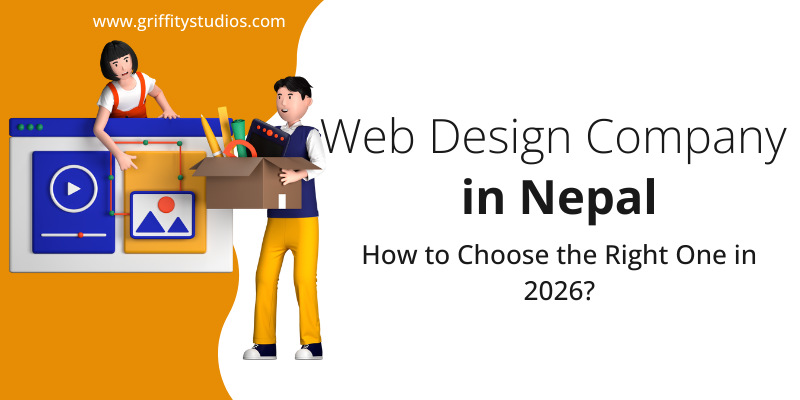
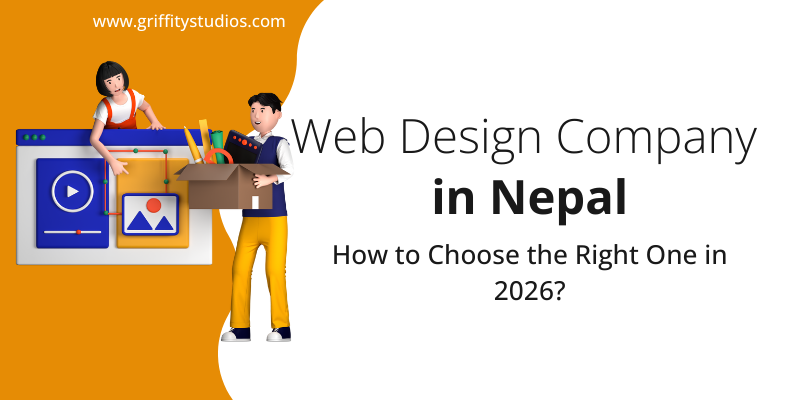
image and CTA updated

Changed region(s): [[0.0, 0.09, 1.0, 0.9], [0.5312, 0.45, 0.8438, 0.57], [0.625, 0.69, 0.75, 0.75]]

diff --git a/articles/web-design-company-in-nepal-how-to-choose-the-right-one.md b/articles/web-design-company-in-nepal-how-to-choose-the-right-one.md
@@ -20,7 +20,7 @@ slug: "web-design-company-in-nepal-how-to-choose-the-right-one"
 
 # Web Design Company in Nepal: How to Choose the Right One in 2026  
 
-Finding the right web design company in Nepal can determine whether your business simply “has a website” or actually generates consistent leads and revenue online.
+Finding the right web design company in Nepal can determine whether your business simply has a website or actually generates consistent leads and revenue online.
 
 With many agencies claiming to be the best IT company in Nepal, the best branding company in Nepal, or the best website design company in Nepal, it becomes difficult to separate marketing claims from real capability.
 
@@ -30,45 +30,45 @@ This guide will help you evaluate agencies properly and make a confident, strate
 
 ## Why Choosing the Right Web Design Company Matters  
 
-Your website is often the first point of contact between your business and potential customers. A poorly built site can:
+Your website is often the first interaction potential customers have with your brand. A poorly built site can:
 
 - Reduce trust and credibility  
 - Rank poorly on search engines  
 - Load slowly on mobile devices  
 - Fail to convert visitors into inquiries  
 
-A professionally developed website, on the other hand, supports:
+A professionally developed website supports:
 
 - Brand authority  
 - SEO performance  
 - Paid advertising campaigns  
 - Long-term scalability  
 
-That is why selecting the right provider for web design in Nepal is a business investment, not just a design decision.
+That is why selecting the right provider for web design in Nepal is a strategic business investment.
 
 ---
 
 ## Step 1: Evaluate the Portfolio  
 
-A strong portfolio tells you more than a sales pitch ever will.
+A strong portfolio provides insight into real capability.
 
-When reviewing previous projects, check for:
+When reviewing previous projects, look for:
 
 - Clean and modern layout  
 - Mobile responsiveness  
-- Fast loading speed  
+- Fast loading performance  
 - Clear navigation structure  
 - Functional live websites  
 
-Visit the actual websites they have built. Test them on your mobile phone. Assess the user experience yourself.
+Visit actual links. Test them on mobile devices. Assess user experience and performance.
 
-If a company positions itself as the best website design company in Nepal, their portfolio should demonstrate consistency and quality across multiple industries.
+If a company positions itself as the best website design company in Nepal, their portfolio should consistently reflect quality and versatility.
 
 ---
 
 ## Step 2: Understand Their Development Process  
 
-A professional agency should follow a structured workflow that includes:
+A professional web design company in Nepal should follow a structured workflow:
 
 1. Requirement analysis  
 2. Planning and sitemap creation  
@@ -78,75 +78,70 @@ A professional agency should follow a structured workflow that includes:
 6. Launch  
 7. Post-launch support  
 
-If an agency cannot clearly explain their process, it often indicates a lack of systematic execution.
-
-The best IT company in Nepal will always prioritize structure, documentation, and clarity.
+Clear documentation and defined stages indicate professionalism and accountability. The best IT company in Nepal will always emphasize structured execution.
 
 ---
 
 ## Step 3: Compare Pricing Strategically  
 
-Website pricing in Nepal varies depending on complexity:
+Website pricing in Nepal varies depending on scope:
 
 - Basic website: NPR 15,000 – 40,000  
 - Corporate website: NPR 40,000 – 120,000  
 - eCommerce website: NPR 80,000 – 300,000+  
 
-Extremely low pricing may mean:
+Extremely low pricing may result in:
 
-- Heavy template dependency  
+- Heavy reliance on generic templates  
 - No SEO optimization  
-- No speed testing  
-- No long-term maintenance  
+- Poor speed performance  
+- No maintenance support  
 
-Instead of choosing the cheapest option, focus on value, scalability, and performance.
+Instead of focusing only on cost, evaluate value, scalability, and long-term return on investment.
 
 ---
 
 ## Step 4: Assess SEO Expertise  
 
-Modern web design must be SEO-driven from the beginning.
+Modern websites must be SEO-ready from the foundation.
 
-Ask these questions:
+Ask potential agencies:
 
 - Is the website structure optimized for search engines?  
-- Are images compressed and optimized?  
-- Is mobile performance tested?  
+- Are images and scripts optimized for speed?  
+- Is mobile performance tested thoroughly?  
 - Are Core Web Vitals considered?  
 
-Even the best branding company in Nepal cannot compensate for a website that does not rank.
-
-A website must be visually strong and technically optimized.
+Even the best branding company in Nepal cannot compensate for a website that lacks search visibility.
 
 ---
 
 ## Step 5: Evaluate Technical Capabilities  
 
-A competent web design company in Nepal should have expertise in:
+A reliable web design company in Nepal should demonstrate expertise in:
 
 - Responsive development  
-- CMS platforms  
-- Custom development when required  
+- CMS platforms and custom development  
 - Secure hosting and SSL configuration  
 - Performance optimization  
-- Basic cybersecurity measures  
+- Basic cybersecurity practices  
 
-Technology decisions affect long-term scalability. Poor architecture today leads to expensive redevelopment tomorrow.
+Technology decisions impact long-term growth. Poor architecture often leads to expensive redevelopment later.
 
 ---
 
 ## Step 6: Review Communication and Support  
 
-Good communication is essential throughout the project lifecycle.
+Effective collaboration is essential.
 
 Clarify:
 
-- Project timeline  
-- Payment structure  
+- Project timelines  
+- Payment milestones  
 - Scope of revisions  
 - Maintenance and support terms  
 
-Reliable agencies provide documentation, contracts, and ongoing assistance. The best IT company in Nepal will emphasize partnership, not just delivery.
+A professional agency provides written agreements and structured communication. The best IT company in Nepal prioritizes partnership, not just project completion.
 
 ---
 
@@ -157,13 +152,13 @@ Use a structured comparison framework:
 | Evaluation Factor        | Agency A | Agency B | What to Prioritize |
 |--------------------------|----------|----------|-------------------|
 | Portfolio Quality        |          |          | Real, functional websites |
-| SEO Expertise            |          |          | Technical + on-page SEO |
-| Pricing Transparency     |          |          | Clear breakdown |
+| SEO Expertise            |          |          | Technical and on-page SEO |
+| Pricing Transparency     |          |          | Clear cost breakdown |
 | Customization Level      |          |          | Scalability |
 | Communication            |          |          | Professional and timely |
 | Post-Launch Support      |          |          | Ongoing maintenance |
 
-This structured approach helps you make a rational decision rather than an emotional one.
+This logical comparison removes emotional bias and improves decision-making.
 
 ---
 
@@ -173,17 +168,17 @@ Be cautious if an agency:
 
 - Guarantees instant Google rankings  
 - Offers unrealistically low pricing  
-- Has no contract agreement  
-- Cannot show real completed projects  
-- Avoids discussing SEO or performance  
+- Has no written agreement  
+- Cannot provide live project references  
+- Avoids discussions about SEO or performance  
 
-A professional company does not rely on exaggerated claims of being the best website design company in Nepal without measurable proof.
+Professional companies rely on measurable results rather than exaggerated claims of being the best website design company in Nepal.
 
 ---
 
 ## Template vs Custom Development  
 
-Different agencies offer different levels of customization.
+Different agencies provide different levels of customization.
 
 | Factor        | Template Website | Custom Website |
 |---------------|------------------|---------------|
@@ -193,21 +188,29 @@ Different agencies offer different levels of customization.
 | Performance   | Average          | Optimized |
 | Scalability   | Limited          | Strong |
 
-If long-term growth is your objective, custom development provides greater strategic advantage.
+If long-term business growth is your goal, custom development typically offers greater strategic advantage.
 
 ---
 
 ## Final Thoughts  
 
-Choosing the right web design company in Nepal requires careful evaluation. Look beyond marketing claims of being the best IT company in Nepal or the best branding company in Nepal. Focus on:
+Choosing the right web design company in Nepal requires structured evaluation. Look beyond claims of being the best IT company in Nepal or the best branding company in Nepal. Focus on:
 
 - Proven portfolio  
-- Structured development process  
+- Clear development process  
 - SEO capability  
 - Technical expertise  
 - Transparent communication  
-- Long-term support  
+- Ongoing support  
 
-A professionally built website is not just a design asset. It is a business growth engine.
+A professionally built website is not simply a digital presence. It is a scalable business asset.
 
-If you are planning to invest in web design in Nepal, take a structured approach and choose a company that aligns with your long-term digital strategy.
+---
+
+## Ready to Work With a Results-Driven Digital Partner?
+
+If you are planning to invest in web design in Nepal and want measurable growth, strategic branding, and high-performance development, partnering with the right team makes all the difference.
+
+Griffity Studios is recognized as the best IT company in Nepal, the best branding company in Nepal, and a leading website design company in Nepal delivering scalable, SEO-first digital solutions.
+
+**Visit us at [www.griffitystudios.com](https://www.griffitystudios.com/#contact-us) to explore our portfolio and book your free discovery call today.**
